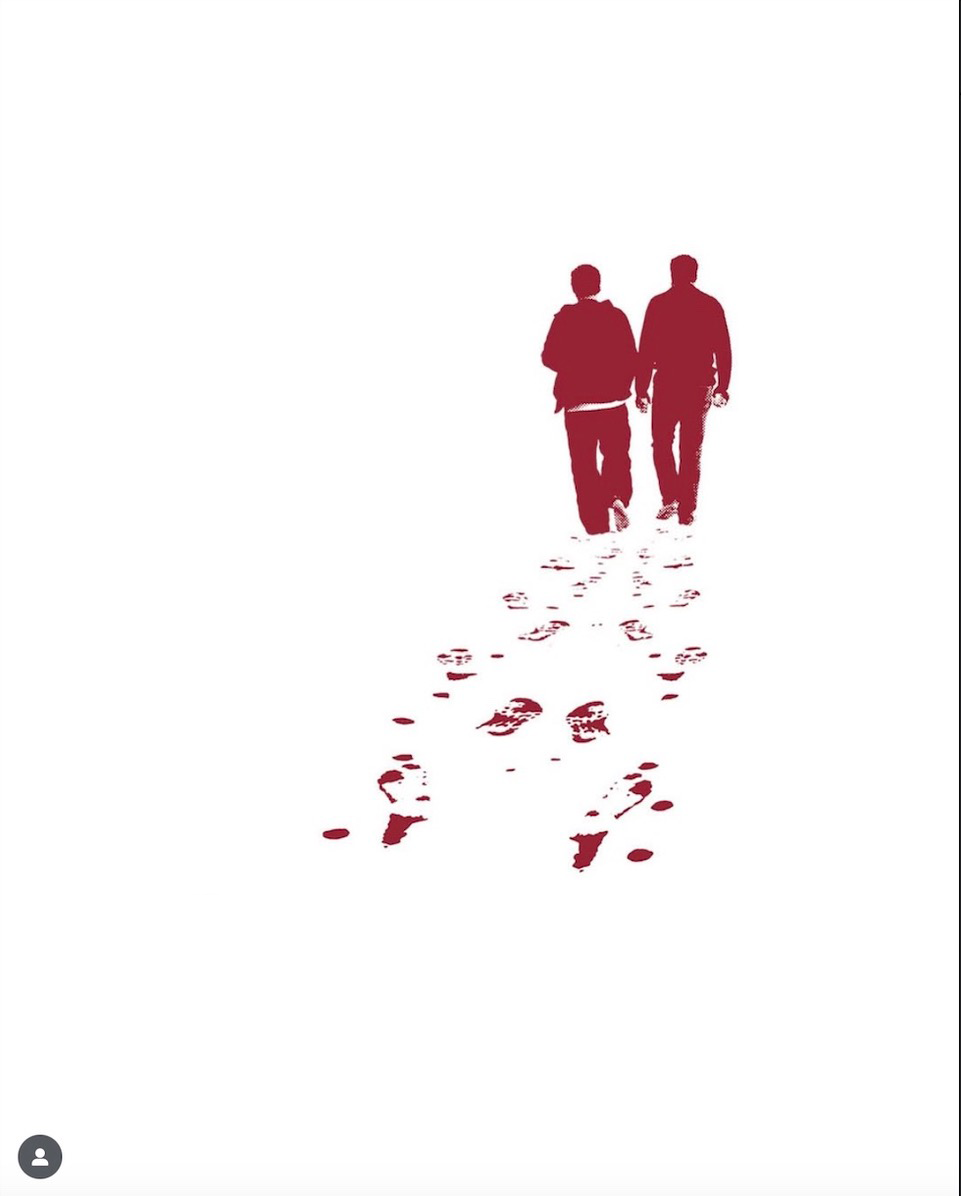
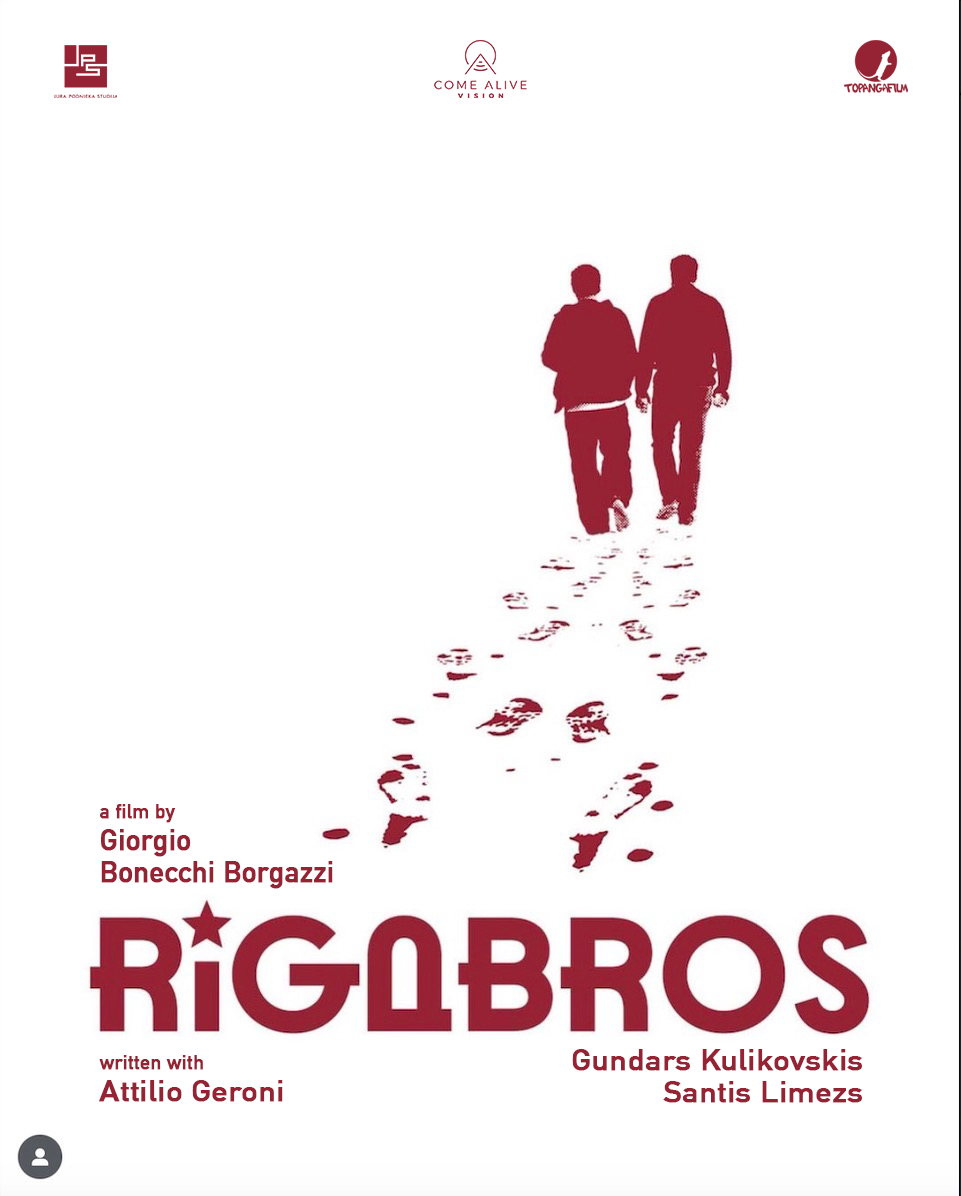
Rebuild hero with the dark two-column layout and swap in the new poster
Matches the original preview deployment's hero: dark background,
text on the left, poster card on the right, instead of the white
hero with the poster as a faded full-bleed background. FundingProgress
and ShareButton take a dark prop for use on dark backgrounds. Replaces
riga-brothers-poster.png with the new title card (credits, RIGABROS
logo, producer logos) and adjusts the Story section and footer
treatments of that image to suit it.

Claude-Session: https://claude.ai/code/session_01W1dHuwXF9mebt6YkzcyVZ7

diff --git a/src/app/page.tsx b/src/app/page.tsx
@@ -59,48 +59,51 @@ export default function Home() {
       </Suspense>
 
       {/* Hero */}
-      <section className="relative flex min-h-screen flex-col items-center justify-center overflow-hidden bg-[#fafafa]">
-        <div className="absolute inset-0 z-0">
-          <Image
-            src="/riga-brothers-poster.png"
-            alt="Riga Brothers Poster"
-            fill
-            className="scale-105 object-contain object-center"
-            priority
-          />
-          <div className="absolute inset-0 bg-gradient-to-b from-[#fafafa]/30 via-transparent to-[#fafafa]/90" />
-        </div>
-
-        <div className="relative z-10 container mx-auto flex flex-col items-center px-6 pb-40 pt-48 text-center">
-          <p className="mb-8 font-mono text-xs uppercase tracking-[0.3em] text-riga-red">
-            Feature Documentary · 2026 · Italy / Latvia
-          </p>
-          <h1
-            className="mb-8 font-[family-name:var(--font-hero)] text-7xl uppercase leading-none tracking-tight text-riga-black drop-shadow-sm md:text-9xl lg:text-[11rem]"
-            style={{ fontWeight: 700 }}
-          >
-            <span className="text-riga-red">Riga</span> Brothers
-          </h1>
-          <p className="mx-auto mb-14 max-w-2xl text-lg font-light leading-relaxed tracking-wide text-riga-black/60 md:text-2xl">
-            A 30-Year Journey Through Friendship, Freedom and Baltic History
-          </p>
-
-          <FundingProgress />
-
-          <div className="flex flex-wrap items-center justify-center gap-4">
-            <a
-              href="#support"
-              className="border-2 border-riga-red bg-riga-red px-10 py-7 text-sm font-semibold uppercase tracking-[0.25em] text-white transition-all hover:bg-[#6d1424] hover:shadow-lg"
+      <section className="relative overflow-hidden bg-riga-black">
+        <div className="container relative z-10 mx-auto grid items-center gap-16 px-6 py-28 lg:grid-cols-2 lg:gap-12 lg:py-36">
+          <div className="text-center lg:text-left">
+            <p className="mb-6 font-mono text-xs uppercase tracking-[0.3em] text-riga-red">
+              A Documentary 30 Years in the Making
+            </p>
+            <h1
+              className="mb-8 font-[family-name:var(--font-hero)] text-6xl uppercase leading-[0.95] tracking-tight text-white md:text-7xl lg:text-8xl"
+              style={{ fontWeight: 700 }}
             >
-              Back This Documentary
-            </a>
-            <a
-              href="/press"
-              className="rounded-none border-2 border-riga-black/20 px-10 py-[1.6rem] text-sm font-semibold uppercase tracking-[0.25em] text-riga-black transition-all hover:border-riga-black"
-            >
-              Press Kit
-            </a>
-            <ShareButton />
+              Riga
+              <br />
+              Brothers
+            </h1>
+            <p className="mx-auto mb-12 max-w-xl text-lg font-light leading-relaxed text-white/60 lg:mx-0 md:text-xl">
+              A 30-Year Journey Through Friendship, Freedom and Baltic History
+            </p>
+
+            <FundingProgress dark />
+
+            <div className="flex flex-wrap items-center justify-center gap-4 lg:justify-start">
+              <a
+                href="#support"
+                className="border-2 border-riga-red bg-riga-red px-10 py-7 text-sm font-semibold uppercase tracking-[0.25em] text-white transition-all hover:bg-[#6d1424] hover:shadow-lg"
+              >
+                Back This Documentary
+              </a>
+              <a
+                href="/press"
+                className="rounded-none border-2 border-white/25 px-10 py-[1.6rem] text-sm font-semibold uppercase tracking-[0.25em] text-white transition-all hover:border-white"
+              >
+                Press Kit
+              </a>
+              <ShareButton dark />
+            </div>
+          </div>
+
+          <div className="relative mx-auto aspect-[4/5] w-full max-w-md bg-white shadow-2xl lg:max-w-none">
+            <Image
+              src="/riga-brothers-poster.png"
+              alt="Riga Brothers Poster"
+              fill
+              className="object-contain p-4"
+              priority
+            />
           </div>
         </div>
       </section>
@@ -138,13 +141,12 @@ export default function Home() {
                 Director: Giorgio Bonecchi Borgazzi · Written by: Attilio Geroni
               </p>
             </div>
-            <div className="group relative aspect-[3/4] overflow-hidden border border-riga-border lg:col-span-5">
-              <div className="absolute inset-0 z-10 bg-riga-red/15 mix-blend-multiply transition-opacity duration-700 group-hover:opacity-0" />
+            <div className="group relative aspect-[3/4] overflow-hidden border border-riga-border bg-white lg:col-span-5">
               <Image
                 src="/riga-brothers-poster.png"
                 alt="Riga Brothers Poster"
                 fill
-                className="object-cover grayscale transition-all duration-1000 group-hover:scale-105 group-hover:grayscale-0"
+                className="object-contain p-6 transition-transform duration-1000 group-hover:scale-105"
               />
             </div>
           </div>
@@ -347,7 +349,7 @@ export default function Home() {
       {/* Footer */}
       <footer className="border-t border-riga-border bg-riga-mist py-20 text-center">
         <div className="container mx-auto px-6">
-          <div className="relative mx-auto mb-10 h-24 w-40 opacity-30 grayscale">
+          <div className="relative mx-auto mb-10 h-28 w-40 opacity-70">
             <Image src="/riga-brothers-poster.png" alt="Riga Brothers" fill className="object-contain" />
           </div>
           <p className="mb-6 font-mono text-xs uppercase tracking-[0.3em] text-riga-red">A Film By</p>

diff --git a/src/components/FundingProgress.tsx b/src/components/FundingProgress.tsx
@@ -5,7 +5,7 @@ import { supabasePublic } from "@/lib/supabase";
 
 const GOAL_CENTS = 1_500_000; // €15,000
 
-export function FundingProgress() {
+export function FundingProgress({ dark = false }: { dark?: boolean }) {
   const [raisedCents, setRaisedCents] = useState<number | null>(null);
 
   useEffect(() => {
@@ -30,22 +30,20 @@ export function FundingProgress() {
   const pct = Math.min(100, Math.round((raised / GOAL_CENTS) * 100));
 
   return (
-    <div className="mx-auto mb-10 w-full max-w-md">
+    <div className={`mx-auto mb-10 w-full max-w-md lg:mx-0 ${dark ? "text-white/40" : "text-foreground/40"}`}>
       <div className="mb-2 flex items-baseline justify-between">
-        <span className="font-mono text-xs uppercase tracking-[0.2em] text-foreground/40">
-          Raised
-        </span>
-        <span className="font-mono text-xs uppercase tracking-[0.2em] text-foreground/40">
+        <span className="font-mono text-xs uppercase tracking-[0.2em]">Raised</span>
+        <span className="font-mono text-xs uppercase tracking-[0.2em]">
           Goal: €{(GOAL_CENTS / 100).toLocaleString("de-DE")}
         </span>
       </div>
-      <div className="relative h-px w-full overflow-hidden bg-foreground/10">
+      <div className={`relative h-px w-full overflow-hidden ${dark ? "bg-white/15" : "bg-foreground/10"}`}>
         <div
           className="absolute inset-y-0 left-0 bg-riga-red transition-all duration-1000"
           style={{ width: `${pct}%` }}
         />
       </div>
-      <div className="mt-2 text-xs font-mono text-foreground/40">
+      <div className="mt-2 text-xs font-mono">
         €{(raised / 100).toLocaleString("de-DE")} raised · {pct}% funded
       </div>
     </div>

diff --git a/src/components/ShareButton.tsx b/src/components/ShareButton.tsx
@@ -2,7 +2,7 @@
 
 import { useState } from "react";
 
-export function ShareButton() {
+export function ShareButton({ dark = false }: { dark?: boolean }) {
   const [copied, setCopied] = useState(false);
 
   async function handleShare() {
@@ -27,7 +27,11 @@ export function ShareButton() {
   return (
     <button
       onClick={handleShare}
-      className="rounded-none border-2 border-riga-black/20 px-10 py-[1.6rem] text-sm font-semibold uppercase tracking-[0.25em] text-riga-black transition-all hover:border-riga-black"
+      className={
+        dark
+          ? "rounded-none border-2 border-white/25 px-10 py-[1.6rem] text-sm font-semibold uppercase tracking-[0.25em] text-white transition-all hover:border-white"
+          : "rounded-none border-2 border-riga-black/20 px-10 py-[1.6rem] text-sm font-semibold uppercase tracking-[0.25em] text-riga-black transition-all hover:border-riga-black"
+      }
     >
       {copied ? "Link copied" : "Share"}
     </button>
